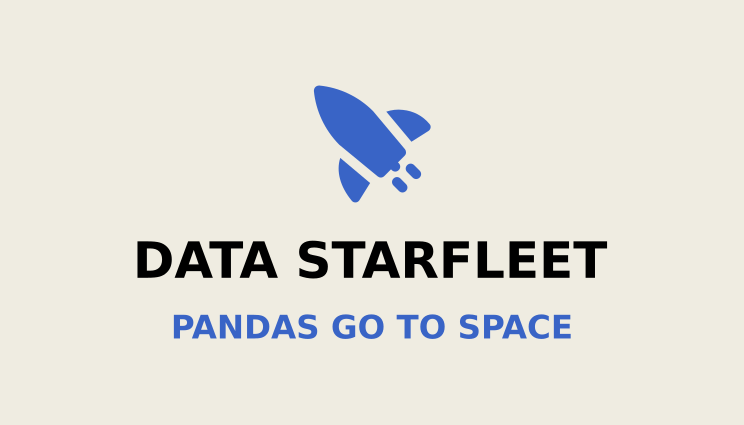
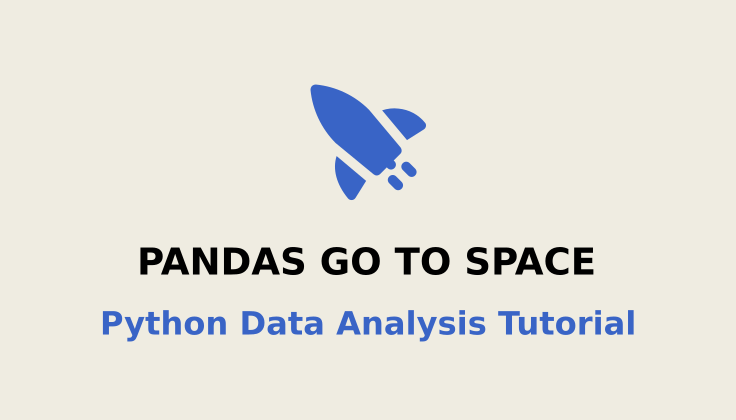
update title and TOC

Changed region(s): [[0.1562, 0.5571, 0.8125, 0.681], [0.125, 0.7119, 0.875, 0.8357]]

diff --git a/index.rst b/index.rst
@@ -10,19 +10,14 @@
    :shadow: lg
    
    Long long ago, in a galaxy far far away,
-   there lived pandas who were traveling space.
+   there lived pandas traveling space.
    They were peaceful explorers and skilled data scientists.
-   
-   The pandas sent out their spaceships
-   to travel the stars,
-   to discover new worlds
-   new tastes of bamboo no creature has tasted before
-   and to plot all data they found on their way.
+   The pandas would venture to the stars in their spaceships
+   to discover planets full of data,
+   to analyze and plot that data,
+   and find new tastes of bamboo no creature had tasted before.
 
 .. figure:: planet.png
-
-This is a Tutorial for Python with pandas
-=========================================
 
 This is a Python tutorial featuring the `pandas <https://pandas.pydata.org/>`__ library.
 It focuses on the technical basics of Data Science – working with tabular data.
@@ -31,7 +26,6 @@ On the way, you will help the pandas explore space.
 
 Contents
 --------
-
 
 .. toctree::
    :maxdepth: 1
@@ -52,6 +46,21 @@ Contents
    create_data_frames/README.rst
    links.rst
 
+Challenges
+----------
+
+.. toctree::
+   :maxdepth: 1
+
+   challenges/babynames/read_data.rst
+   challenges/babynames/timeline.rst
+   challenges/babynames/last_letters.rst
+   challenges/climate_stripes/README.rst
+   challenges/gapminder/README.rst
+   challenges/beakonomics.rst
+   challenges/pingubase/README.rst
+   challenges/pagerank/README.rst
+
 
 .. figure:: huge.jpeg
 
@@ -70,3 +79,8 @@ License
 
 Unless stated otherwise, the content of this tutorial may be used under the conditions of the **Creative Commons Attribution Share-Alike License 4.0 (CC-BY-SA 4.0)**. 
 See `creativecommons.org <https://creativecommons.org/licenses/by-sa/4.0/>`__ .
+
+Acknowledgements
+----------------
+
+I would like to thank the following people for inspiring exchange on training and Python that this material has benefited from: Jasmin Touati, Veit Schiele, Dinu Gherman, Pedro Fernandes, Tomasz Puton, Edward Jenkins, Bernard Szlachta, Robert Lehmann, Allegra Via, Kaja Milanowska, Anna Philips, Paul Wlodkowski, Tom Gadsby, Stefan Roth, Gesa Johannsen, Ugur Ural, Malte Bonart, Paula Gonzalez, Samuel McGuire, Sara Maras, Carmine Somma, Kiran Challa, Dina Deifallah, Marija Vlajic, Emely Henninger and Magdalena Rother.

diff --git a/preparations/README.rst b/preparations/README.rst
@@ -5,7 +5,7 @@ Preparations
 Boarding
 --------
 
-.. figure:: panda_airlock.png
+.. figure:: panda_cockpit.jpeg
 
 
 .. card::
@@ -18,7 +18,7 @@ Boarding
     You step through the corridors without a sound, thanks to your soft paws.
     You finally reach the bridge and the captains seat. Time to boot your spaceships computer.
 
-    Before you can start your journey with the **Data Starfleet**, you need to install a few programs on your ships' computer:
+    Before you can start your journey, you need to install a few programs on your ships' computer:
 
 ----
 
@@ -64,7 +64,7 @@ Write an import section
 Check if the core Python libraries for data analytics are installed.
 Write into an empty code cell:
 
-.. code:: python
+.. code:: python3
 
     import pandas as pd
     import numpy as np
@@ -83,16 +83,16 @@ Apply keyboard shortcuts
 Hitting those small keys with your big paws is not easy.
 It takes years of practice. To make your life easier, there are a couple of useful shortcuts: 
 
-================ ===============
+================ ==========================
 key              description  
-================ ===============
+================ ==========================
 `Shift + Enter`  execute a cell
 `Escape + A`     insert a cell above
 `Escape + B`     insert a cell below
 `Escape + X`     delete the current cell
 `Tab`            autocomplete names
-`Shift + Tab     context-sensitive help
-================ ===============
+`Shift + Tab`    context-sensitive help
+================ ==========================
 
 ----
 

diff --git a/links.rst b/links.rst
@@ -14,3 +14,9 @@ Plotting
 - `Matplotlib Intro on scipy-lectures.org <https://scipy-lectures.org/intro/matplotlib/index.html>`__
 - `Seborn Gallery <https://seaborn.pydata.org/examples/index.html>`__ – Plot examples ready for copy-pasting
 - `Plotly <https://plotly.com/python/>`__ – another great plotting library for Python.
+
+Further Reading
+---------------
+
+- `Claus Wilkes book on Data Visualization <https://github.com/clauswilke/dataviz>`__
+- `Information is Beautiful <https://www.informationisbeautifulawards.com/showcase?award=2022&type=awards>`__

diff --git a/read_write_data/README.rst b/read_write_data/README.rst
@@ -112,9 +112,16 @@ it is sometimes straightforward to combine them into a single `DataFrame`:
 Plot the Star Map
 -----------------
 
+With the **seaborn** library, you can visualize data from DataFrames with one-liners:
+
 .. code:: python
 
    sns.scatterplot(data=df, x='x', y='z', size='size', hue='class')
+
+Here is how your home sector should look like:
+
+.. figure:: panda_sector.png
+
 
 ----
 
